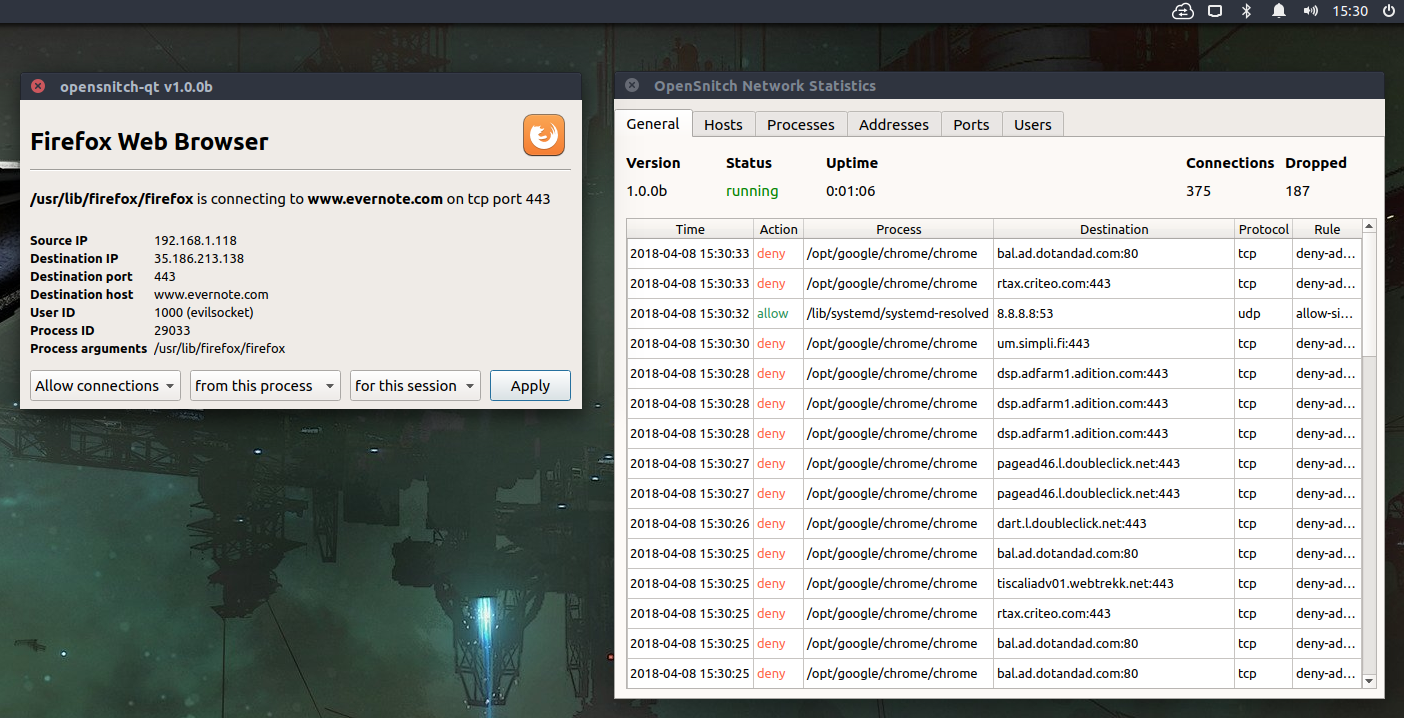
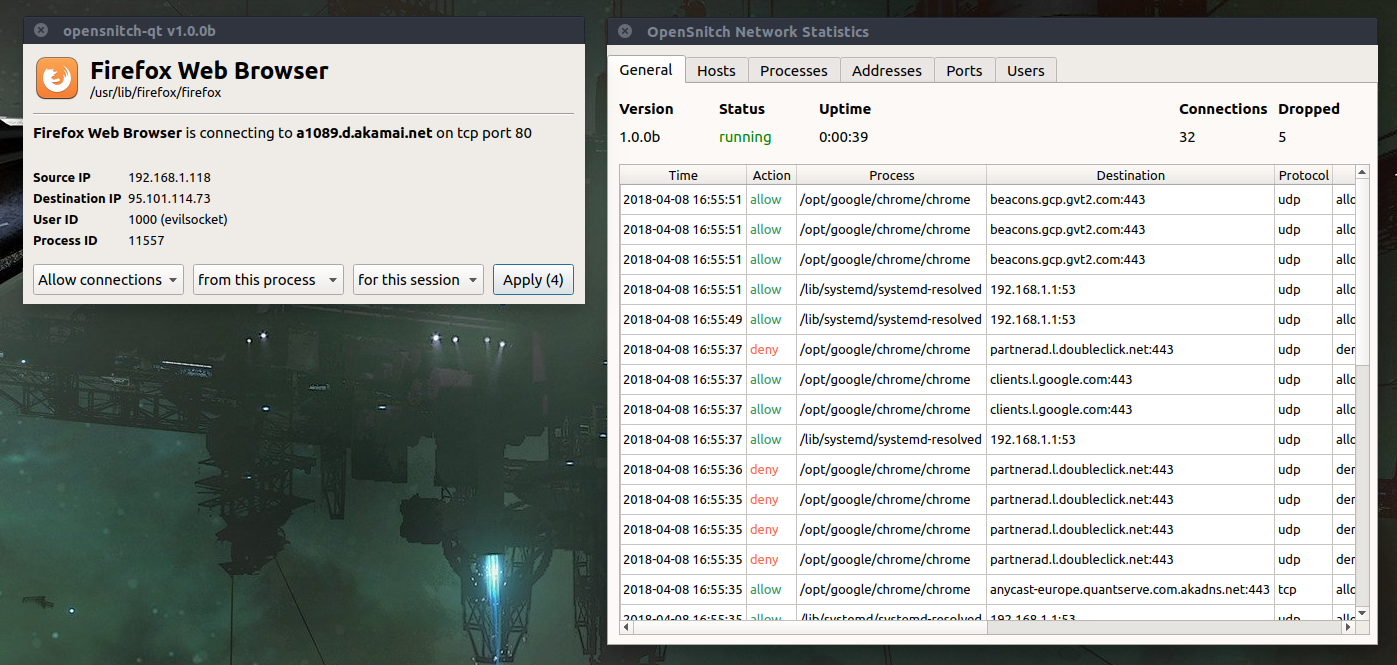
misc: small fix or general refactoring i did not bother commenting

diff --git a/ui/dialogs/prompt.py b/ui/dialogs/prompt.py
@@ -49,8 +49,6 @@ class PromptDialog(QtWidgets.QDialog, uic.loadUiType(DIALOG_UI_PATH)[0]):
 
         self._src_ip_label = self.findChild(QtWidgets.QLabel, "sourceIPLabel")
         self._dst_ip_label = self.findChild(QtWidgets.QLabel, "destIPLabel")
-        self._dst_port_label = self.findChild(QtWidgets.QLabel, "destPortLabel")
-        self._dst_host_label = self.findChild(QtWidgets.QLabel, "destHostLabel")
         self._uid_label = self.findChild(QtWidgets.QLabel, "uidLabel")
         self._pid_label = self.findChild(QtWidgets.QLabel, "pidLabel")
         self._args_label = self.findChild(QtWidgets.QLabel, "argsLabel")
@@ -121,13 +119,13 @@ class PromptDialog(QtWidgets.QDialog, uic.loadUiType(DIALOG_UI_PATH)[0]):
 
         if self._local:
             message = "<b>%s</b> is connecting to <b>%s</b> on %s port %d" % ( \
-                        con.process_path,
+                        app_name,
                         con.dst_host or con.dst_ip,
                         con.protocol,
                         con.dst_port )
         else:
             message = "The process <b>%s</b> running on the computer <b>%s</b> is connecting to <b>%s</b> on %s port %d" % ( \
-                        con.process_path,
+                        app_name,
                         self._peer.split(':')[1],
                         con.dst_host or con.dst_ip,
                         con.protocol,
@@ -137,8 +135,6 @@ class PromptDialog(QtWidgets.QDialog, uic.loadUiType(DIALOG_UI_PATH)[0]):
 
         self._src_ip_label.setText(con.src_ip)
         self._dst_ip_label.setText(con.dst_ip)
-        self._dst_port_label.setText("%s" % con.dst_port)
-        self._dst_host_label.setText(con.dst_host)
 
         if self._local:
             uid = "%d (%s)" % (con.user_id, pwd.getpwuid(con.user_id).pw_name)
